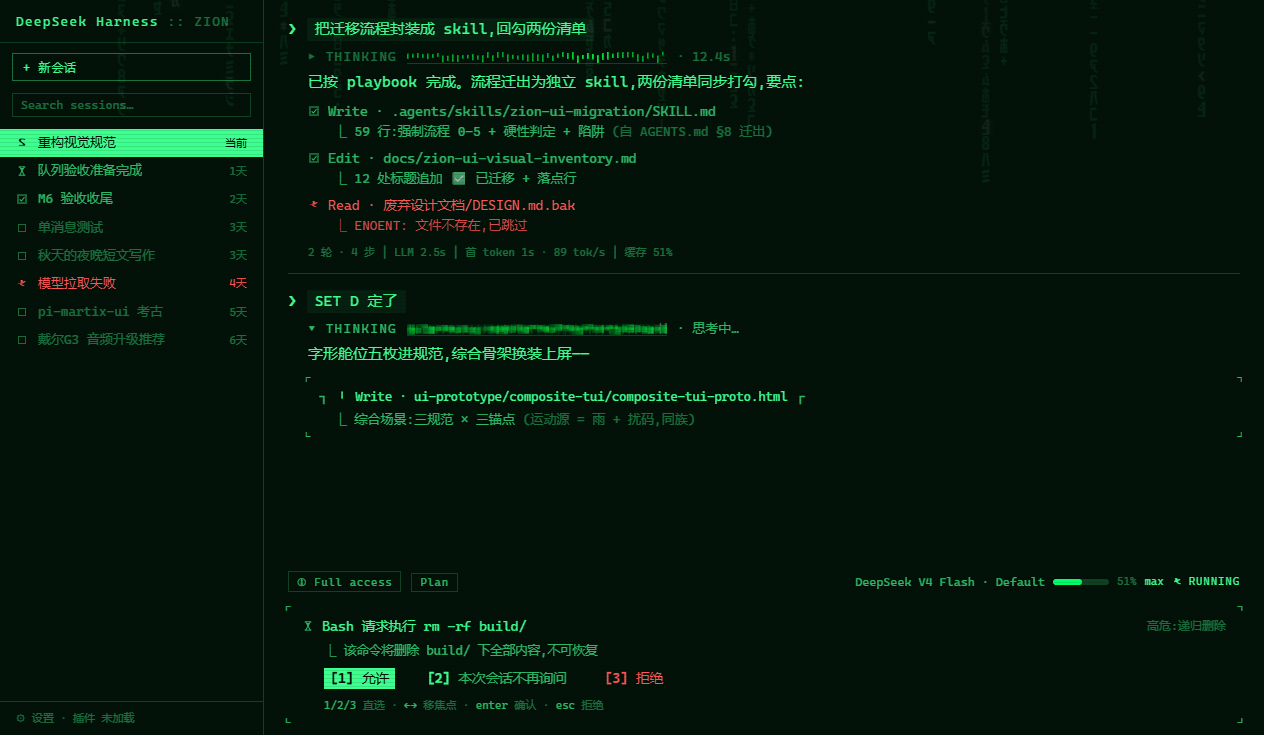
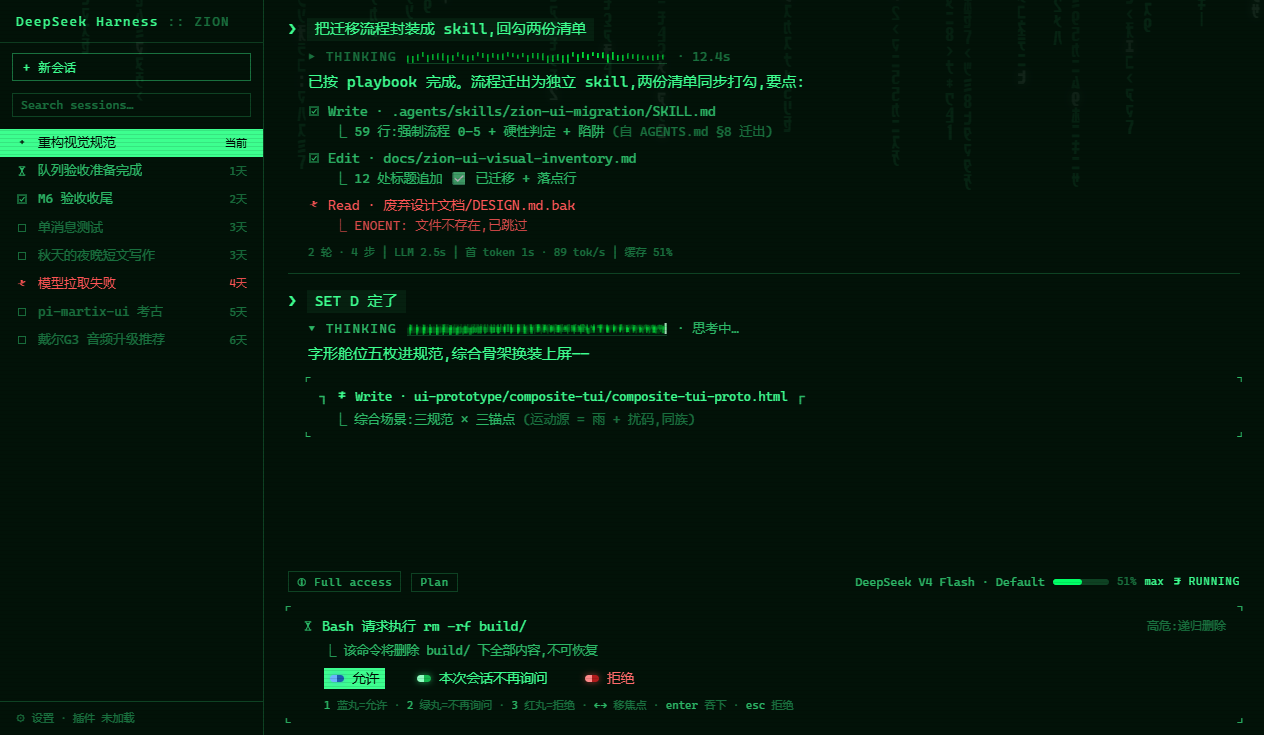
docs(design): §2.11 场景化定案——审批药丸三选(V2 双色半囊),字形手路线废弃
- 药丸语义:蓝=允许(第二色相锁死审批)/绿=信任(系统本色)/红=拒绝(回归语义红)
- 丸形 V2 双色半囊(亮半+暗半+中缝,电影胶囊结构),取代数字作选项标记,键位入 foot
- 字形手三轮迭代(掩码手/照片管线/SVG 描形手)全部废弃,_img2glyph.py/hands-data.js 删除留痕
- pill-variants demo V1–V4 对照存档;approval demo C 节与 composite 审批态同步换装

diff --git a/ui-prototype/pill-variants/pill-variants-proto.html b/ui-prototype/pill-variants/pill-variants-proto.html
@@ -1,0 +1,135 @@
+<!DOCTYPE html>
+<!-- PROTOTYPE — throwaway: 药丸样式变体微 demo(审批三丸:允许=蓝/信任=绿/拒绝=红)
+     V1 实心辉光(现状) / V2 双色半囊(电影胶囊两半质感+中缝) / V3 描边空心(发丝线+薄底) / V4 像素阶梯(cispEdges)
+     裁决:哪款丸形成为审批语义位的定稿。 -->
+<html lang="zh">
+<head>
+<meta charset="utf-8">
+<title>药丸变体</title>
+<style>
+  :root {
+    --bg: #010a04;
+    --surface: rgba(2, 18, 9, 0.92);
+    --p100: rgba(61, 255, 143, 1);
+    --p70: rgba(61, 255, 143, 0.7);
+    --p40: rgba(61, 255, 143, 0.4);
+    --p20: rgba(61, 255, 143, 0.2);
+    --font: "Share Tech Mono", ui-monospace, "Cascadia Mono", "Courier New", "Sarasa Term SC", "Microsoft YaHei", monospace;
+  }
+  * { margin: 0; padding: 0; box-sizing: border-box; }
+  body { background: var(--bg); color: var(--p100); font: 15px/1.55 var(--font); padding: 28px 32px; }
+  *::-webkit-scrollbar { width: 6px; height: 6px; }
+  *::-webkit-scrollbar-thumb { background: #00ff66; border-radius: 3px; }
+  *::-webkit-scrollbar-track, *::-webkit-scrollbar-corner { background: transparent; }
+
+  h1 { font-size: 13px; letter-spacing: 0.12em; margin-bottom: 4px; }
+  h1 .tag { color: var(--p40); }
+  .rule { color: var(--p70); font-size: 12px; margin-bottom: 20px; }
+  h2 { font-size: 11px; letter-spacing: 0.14em; color: var(--p70); margin: 22px 0 8px; text-transform: uppercase; }
+  h2::before { content: "─ "; color: var(--p40); }
+  h2 .d { color: var(--p40); letter-spacing: 0; text-transform: none; }
+
+  .lane { border: 1px solid var(--p20); background: var(--surface); padding: 12px 16px 14px; margin-bottom: 14px; }
+  .opts-pill { display: flex; justify-content: center; gap: 34px; font-size: 13.5px; }
+  .popt { display: inline-flex; gap: 8px; align-items: center; padding: 0 6px; }
+  .popt.allow .lbl { color: #6db3ff; }
+  .popt.trust .lbl { color: var(--p100); }
+  .popt.deny .lbl { color: #ff6b6b; }
+  .popt.focus { background: var(--p100); }
+  .popt.focus .lbl { color: var(--bg) !important; }
+  .cp { width: 14px; height: 7px; flex: none; }
+  .spec { display: flex; justify-content: center; gap: 60px; margin-top: 12px; }
+  .spec .cp { transform: scale(4); transform-origin: center; margin: 14px 0 4px; }
+  .spec .cell { text-align: center; }
+  .spec .nm { font-size: 10.5px; color: var(--p40); letter-spacing: 0.08em; margin-top: 2px; }
+
+  /* V1 实心辉光(现状) */
+  .v1 .cp { border-radius: 4px; }
+  .v1 .allow .cp { background: #3f9dff; box-shadow: 0 0 8px rgba(63,157,255,0.8), 0 0 2px rgba(190,225,255,0.9); }
+  .v1 .trust .cp { background: #3dff8f; box-shadow: 0 0 8px rgba(61,255,143,0.8), 0 0 2px rgba(194,255,217,0.9); }
+  .v1 .deny  .cp { background: #ff4d4d; box-shadow: 0 0 8px rgba(255,77,77,0.8), 0 0 2px rgba(255,190,190,0.9); }
+  /* V2 双色半囊(亮半+暗半+中缝) */
+  .v2 .cp { border-radius: 4px; position: relative; }
+  .v2 .allow .cp { background: linear-gradient(90deg, #6db3ff 0 48%, #1c5fb0 52% 100%); box-shadow: 0 0 6px rgba(63,157,255,0.55); }
+  .v2 .trust .cp { background: linear-gradient(90deg, #8fffc0 0 48%, #14b850 52% 100%); box-shadow: 0 0 6px rgba(61,255,143,0.55); }
+  .v2 .deny  .cp { background: linear-gradient(90deg, #ff8a8a 0 48%, #b01c1c 52% 100%); box-shadow: 0 0 6px rgba(255,77,77,0.55); }
+  /* V3 描边空心(发丝线 + 15% 薄底) */
+  .v3 .cp { border-radius: 4px; background: transparent; }
+  .v3 .allow .cp { border: 1px solid #6db3ff; background: rgba(63,157,255,0.15); }
+  .v3 .trust .cp { border: 1px solid var(--p100); background: rgba(61,255,143,0.15); }
+  .v3 .deny  .cp { border: 1px solid #ff6b6b; background: rgba(255,77,77,0.15); }
+  /* V4 像素阶梯(clip-path 阶梯切角) */
+  .v4 .cp { width: 16px; height: 8px;
+    clip-path: polygon(18.75% 0, 81.25% 0, 100% 37.5%, 100% 62.5%, 81.25% 100%, 18.75% 100%, 0 62.5%, 0 37.5%); }
+  .v4 .allow .cp { background: #3f9dff; box-shadow: 0 0 6px rgba(63,157,255,0.6); }
+  .v4 .trust .cp { background: #3dff8f; box-shadow: 0 0 6px rgba(61,255,143,0.6); }
+  .v4 .deny  .cp { background: #ff4d4d; box-shadow: 0 0 6px rgba(255,77,77,0.6); }
+
+  .note { color: var(--p40); font-size: 11px; line-height: 1.8; margin-top: 6px; }
+</style>
+</head>
+<body>
+
+<h1>药丸变体 <span class="tag">— 蓝=允许 / 绿=信任 / 红=拒绝,哪款丸形?</span></h1>
+<div class="rule">同一行三丸,只换丸形。判断:辨识度(三色一眼区分)/ 与发丝线系统的肌理协调 / 电影胶囊的联想强度。</div>
+
+<h2>V1 · 实心辉光 <span class="d">现状:纯色胶囊 + 双层 glow——最「发光体」</span></h2>
+<div class="lane v1">
+  <div class="opts-pill">
+    <span class="popt allow focus"><span class="cp"></span><span class="lbl">允许</span></span>
+    <span class="popt trust"><span class="cp"></span><span class="lbl">本次会话不再询问</span></span>
+    <span class="popt deny"><span class="cp"></span><span class="lbl">拒绝</span></span>
+  </div>
+  <div class="spec">
+    <div class="cell"><span class="popt allow"><span class="cp"></span></span><div class="nm">允许</div></div>
+    <div class="cell"><span class="popt trust"><span class="cp"></span></span><div class="nm">信任</div></div>
+    <div class="cell"><span class="popt deny"><span class="cp"></span></span><div class="nm">拒绝</div></div>
+  </div>
+</div>
+
+<h2>V2 · 双色半囊 <span class="d">亮半 + 暗半 + 中缝——真实胶囊的两半结构,电影丸最接近</span></h2>
+<div class="lane v2">
+  <div class="opts-pill">
+    <span class="popt allow focus"><span class="cp"></span><span class="lbl">允许</span></span>
+    <span class="popt trust"><span class="cp"></span><span class="lbl">本次会话不再询问</span></span>
+    <span class="popt deny"><span class="cp"></span><span class="lbl">拒绝</span></span>
+  </div>
+  <div class="spec">
+    <div class="cell"><span class="popt allow"><span class="cp"></span></span><div class="nm">允许</div></div>
+    <div class="cell"><span class="popt trust"><span class="cp"></span></span><div class="nm">信任</div></div>
+    <div class="cell"><span class="popt deny"><span class="cp"></span></span><div class="nm">拒绝</div></div>
+  </div>
+</div>
+
+<h2>V3 · 描边空心 <span class="d">1px 发丝线 + 15% 薄底——最克制,与框线系统同肌理</span></h2>
+<div class="lane v3">
+  <div class="opts-pill">
+    <span class="popt allow focus"><span class="cp"></span><span class="lbl">允许</span></span>
+    <span class="popt trust"><span class="cp"></span><span class="lbl">本次会话不再询问</span></span>
+    <span class="popt deny"><span class="cp"></span><span class="lbl">拒绝</span></span>
+  </div>
+  <div class="spec">
+    <div class="cell"><span class="popt allow"><span class="cp"></span></span><div class="nm">允许</div></div>
+    <div class="cell"><span class="popt trust"><span class="cp"></span></span><div class="nm">信任</div></div>
+    <div class="cell"><span class="popt deny"><span class="cp"></span></span><div class="nm">拒绝</div></div>
+  </div>
+</div>
+
+<h2>V4 · 像素阶梯 <span class="d">clip-path 阶梯切角——字符网格/像素肌理,机械感</span></h2>
+<div class="lane v4">
+  <div class="opts-pill">
+    <span class="popt allow focus"><span class="cp"></span><span class="lbl">允许</span></span>
+    <span class="popt trust"><span class="cp"></span><span class="lbl">本次会话不再询问</span></span>
+    <span class="popt deny"><span class="cp"></span><span class="lbl">拒绝</span></span>
+  </div>
+  <div class="spec">
+    <div class="cell"><span class="popt allow"><span class="cp"></span></span><div class="nm">允许</div></div>
+    <div class="cell"><span class="popt trust"><span class="cp"></span></span><div class="nm">信任</div></div>
+    <div class="cell"><span class="popt deny"><span class="cp"></span></span><div class="nm">拒绝</div></div>
+  </div>
+</div>
+
+<div class="note">备注:V2 的「双色半囊」是电影道具丸的真实结构(两半压合),三色版本各配了亮/暗两阶;V3 在 4× 下最精致但 1× 时最弱;V4 的阶梯切角在 1× 下读作「倒角胶囊」,比纯圆角更硬。</div>
+
+</body>
+</html>

diff --git a/ui-prototype/approval/approval-proto.html b/ui-prototype/approval/approval-proto.html
@@ -65,6 +65,20 @@
   .ap .foot .k { color: var(--p70); }
 
   .note { color: var(--p40); font-size: 11px; line-height: 1.8; margin-top: 6px; }
+
+  /* ── C 红蓝药丸(选项 = 药丸标记,无手;V2 双色半囊定稿) ── */
+  .opts-pill { display: flex; justify-content: center; gap: 34px; margin: 14px 0 2px; font-size: 13.5px; }
+  .popt { display: inline-flex; gap: 8px; align-items: center; padding: 0 6px; }
+  .popt .cap-pill { width: 14px; height: 7px; border-radius: 4px; flex: none; }
+  .popt.allow .cap-pill { background: linear-gradient(90deg, #6db3ff 0 48%, #1c5fb0 52% 100%); box-shadow: 0 0 6px rgba(63,157,255,0.55); }
+  .popt.trust .cap-pill { background: linear-gradient(90deg, #8fffc0 0 48%, #14b850 52% 100%); box-shadow: 0 0 6px rgba(61,255,143,0.55); }
+  .popt.deny .cap-pill { background: linear-gradient(90deg, #ff8a8a 0 48%, #b01c1c 52% 100%); box-shadow: 0 0 6px rgba(255,77,77,0.55); }
+  .popt.allow .lbl { color: #6db3ff; }
+  .popt.trust .lbl { color: var(--p100); }
+  .popt.deny .lbl { color: #ff6b6b; }
+  .popt.focus { background: var(--p100); }
+  .popt.focus .lbl { color: var(--bg) !important; }
+  .vtag { text-align: center; font-size: 11px; color: var(--p40); letter-spacing: 0.1em; margin-top: 14px; }
 </style>
 </head>
 <body>
@@ -106,7 +120,22 @@
   </div>
 </div>
 
-<div class="note">判断点:① 横排省一行高度、更像「快捷应答」,竖排每行可挂 hint、键盘焦点语义更清楚;② 角括号面板与运行工具的角括号同族但语义分层:工具=正在发生,审批=正在等你;③ 拒绝的红只在 [3] 一行,不污染面板。</div>
+<h2>C · 红蓝药丸(场景化 · 药丸即选项)</h2>
+<div class="lane">
+  <div class="ap">
+    <span class="cnr ct cl">⌜</span><span class="cnr ct cr">⌝</span><span class="cnr cb cl">⌞</span><span class="cnr cb cr">⌟</span>
+    <div class="req"><span class="ic c-wait" data-k="wait"></span><span>Bash 请求执行</span><span class="cmd">rm -rf build/</span><span class="why">高危:递归删除</span></div>
+    <div class="sub">⎿ 该命令将删除 build/ 下全部内容,不可恢复——选你的药丸</div>
+    <div class="opts-pill">
+      <span class="popt allow focus"><span class="cap-pill"></span><span class="lbl">允许</span></span>
+      <span class="popt trust"><span class="cap-pill"></span><span class="lbl">本次会话不再询问</span></span>
+      <span class="popt deny"><span class="cap-pill"></span><span class="lbl">拒绝</span></span>
+    </div>
+    <div class="foot"><span class="k">1</span> 蓝丸=允许 · <span class="k">2</span> 绿丸=不再询问 · <span class="k">3</span> 红丸=拒绝 · <span class="k">←→</span> 移焦点 · <span class="k">enter</span> 吞下 · <span class="k">esc</span> 拒绝</div>
+  </div>
+</div>
+
+<div class="note">语义定案:蓝丸=允许(第二色相,锁死审批场景)/ 绿丸=本次会话不再询问(磷光绿=系统本色,「成为系统记住的选择」= 信任)/ 红丸=拒绝(回归语义红)。药丸取代数字作选项标记,数字键位保留在 foot 提示;esc = 拒绝(红丸)。</div>
 
 <script>
 const MXFONT = '"Matrix Code","Share Tech Mono",monospace';

diff --git a/ui-prototype/composite-tui/composite-tui-proto.html b/ui-prototype/composite-tui/composite-tui-proto.html
@@ -138,12 +138,16 @@
   .ap .req .why { color: var(--p40); font-size: 12px; margin-left: auto; }
   .ap .sub { font-size: 12.5px; color: var(--p70); margin: 4px 0 8px 22px; }
   .ap .opts { display: flex; gap: 26px; margin-left: 22px; font-size: 13.5px; }
-  .ap .opt { padding: 0 6px; }
-  .ap .opt .key { color: var(--p100); font-weight: bold; }
-  .ap .opt .lbl { color: var(--p70); }
-  .ap .opt.deny .key, .ap .opt.deny .lbl { color: var(--danger); }
+  .ap .opt { display: inline-flex; gap: 8px; align-items: center; padding: 0 6px; }
+  .ap .opt .cap-pill { width: 14px; height: 7px; border-radius: 4px; flex: none; }
+  .ap .opt.allow .cap-pill { background: linear-gradient(90deg, #6db3ff 0 48%, #1c5fb0 52% 100%); box-shadow: 0 0 6px rgba(63,157,255,0.55); }
+  .ap .opt.trust .cap-pill { background: linear-gradient(90deg, #8fffc0 0 48%, #14b850 52% 100%); box-shadow: 0 0 6px rgba(61,255,143,0.55); }
+  .ap .opt.deny .cap-pill { background: linear-gradient(90deg, #ff8a8a 0 48%, #b01c1c 52% 100%); box-shadow: 0 0 6px rgba(255,77,77,0.55); }
+  .ap .opt.allow .lbl { color: #6db3ff; }
+  .ap .opt.trust .lbl { color: var(--p100); }
+  .ap .opt.deny .lbl { color: #ff6b6b; }
   .ap .opt.focus { background: var(--p100); }
-  .ap .opt.focus * { color: var(--bg) !important; }
+  .ap .opt.focus .lbl { color: var(--bg) !important; }
   .ap .foot { margin: 8px 0 0 22px; font-size: 11px; color: var(--p40); }
   .ap .foot .k { color: var(--p70); }
 </style>
@@ -222,11 +226,11 @@
         <div class="req"><span class="ic c-wait" data-k="wait"></span><span>Bash 请求执行</span><span>rm -rf build/</span><span class="why">高危:递归删除</span></div>
         <div class="sub">⎿ 该命令将删除 build/ 下全部内容,不可恢复</div>
         <div class="opts">
-          <span class="opt focus"><span class="key">[1]</span> <span class="lbl">允许</span></span>
-          <span class="opt"><span class="key">[2]</span> <span class="lbl">本次会话不再询问</span></span>
-          <span class="opt deny"><span class="key">[3]</span> <span class="lbl">拒绝</span></span>
+          <span class="opt allow focus"><span class="cap-pill"></span><span class="lbl">允许</span></span>
+          <span class="opt trust"><span class="cap-pill"></span><span class="lbl">本次会话不再询问</span></span>
+          <span class="opt deny"><span class="cap-pill"></span><span class="lbl">拒绝</span></span>
         </div>
-        <div class="foot"><span class="k">1/2/3</span> 直选 · <span class="k">←→</span> 移焦点 · <span class="k">enter</span> 确认 · <span class="k">esc</span> 拒绝</div>
+        <div class="foot"><span class="k">1</span> 蓝丸=允许 · <span class="k">2</span> 绿丸=不再询问 · <span class="k">3</span> 红丸=拒绝 · <span class="k">←→</span> 移焦点 · <span class="k">enter</span> 吞下 · <span class="k">esc</span> 拒绝</div>
       </div>
       <div class="subline">
         <span>2 轮 · 4 步 │ LLM 2.5s │ 首 token 平均 1s · 89 tok/s │ 缓存命中 51% │ 输入 47.9K tok · 输出 47 tok</span>

diff --git a/ui-prototype/approval/_img2glyph.py b/ui-prototype/approval/_img2glyph.py
@@ -1,0 +1,93 @@
+# PROTOTYPE — throwaway: 剧照 → Matrix 字形亮度场转换(方案 A 管线 v2:抠形+描边+归一)
+# 用法: python _img2glyph.py
+# v2 工序:网格化 → 阈值剪影 → 形态学 close/open → bbox 收紧(+1 格边距) →
+#          内部亮度分位数归一(1–4 档) → 轮廓格提 4 档 → 药丸挖除
+# 输出: hands-data.js(const HANDS = {...})
+from PIL import Image, ImageOps
+import json, os
+
+SRC = r"C:\Users\zyf\Desktop\红蓝药丸-6809081929658.png"
+OUT = os.path.join(os.path.dirname(os.path.abspath(__file__)), "hands-data.js")
+
+CROPS = {"left": (0, 0, 148, 168), "right": (152, 0, 300, 168)}
+GRID_W = 56
+CHAR_ASPECT = 0.5
+BG_T = {"left": 40, "right": 52}  # 剪影阈值(左手在剧照里更暗,单列阈值防轮廓被吃)
+MARGIN = 1           # bbox 外扩格数
+PILL_RX_MAX = 4.0    # 药丸挖除半径上限(格),防挖出大洞
+
+# 药丸(全图坐标,硬标定;换素材重跑时重标定)
+PILL_FULL = {"left": (84, 83, 22, 16), "right": (229, 83, 20, 14)}  # cx, cy, w, h
+
+def dilate(m, W, H):
+    return [[any(m[yy][xx] for yy in range(max(0, y-1), min(H, y+2)) for xx in range(max(0, x-1), min(W, x+2)))
+             for x in range(W)] for y in range(H)]
+
+def erode(m, W, H):
+    return [[all(m[yy][xx] for yy in range(max(0, y-1), min(H, y+2)) for xx in range(max(0, x-1), min(W, x+2)))
+             for x in range(W)] for y in range(H)]
+
+def convert(img, side, crop):
+    W, H = img.size
+    gh = max(1, round(GRID_W * (H / W) * CHAR_ASPECT))
+    g = img.resize((GRID_W, gh), Image.LANCZOS)
+    px = g.load()
+    gray = [[px[x, y] for x in range(GRID_W)] for y in range(gh)]
+
+    # 1) 剪影 + 形态学(close 填缝 → open 去斑)
+    m = [[gray[y][x] >= BG_T[side] for x in range(GRID_W)] for y in range(gh)]
+    m = erode(dilate(m, GRID_W, gh), GRID_W, gh)
+    m = dilate(erode(m, GRID_W, gh), GRID_W, gh)
+
+    # 2) bbox 收紧(+MARGIN)
+    ys = [y for y in range(gh) for x in range(GRID_W) if m[y][x]]
+    xs = [x for y in range(gh) for x in range(GRID_W) if m[y][x]]
+    if not xs:
+        raise SystemExit(f"{side}: 剪影为空,调阈值")
+    x0, x1 = max(0, min(xs) - MARGIN), min(GRID_W, max(xs) + 1 + MARGIN)
+    y0, y1 = max(0, min(ys) - MARGIN), min(gh, max(ys) + 1 + MARGIN)
+    tw, th = x1 - x0, y1 - y0
+
+    # 3) 内部亮度分位数归一 → 1–4 档
+    interior = sorted(gray[y][x] for y in range(y0, y1) for x in range(x0, x1) if m[y][x])
+    def level(v):
+        q = sum(1 for t in interior if t <= v) / len(interior)  # 近似分位(小网格够用)
+        return 1 if q < 0.45 else 2 if q < 0.75 else 3 if q < 0.93 else 4
+
+    # 4) 药丸格坐标(全图 → 裁剪图 → 网格 → 收紧后网格)
+    cx, cy, pw, ph = PILL_FULL[side]
+    gx = (cx - crop[0]) / W * GRID_W - x0
+    gy = (cy - crop[1]) / H * gh - y0
+    pill = {"x": round(gx, 2), "y": round(gy, 2),
+            "rx": min(PILL_RX_MAX, max(1.2, pw / W * GRID_W * 0.8)), "ry": max(1.0, ph / H * gh * 1.1)}
+
+    rows = []
+    for y in range(y0, y1):
+        row = []
+        for x in range(x0, x1):
+            if not m[y][x]:
+                row.append(0); continue
+            # 药丸挖除
+            if abs(x - x0 - gx) <= pill["rx"] and abs(y - y0 - gy) <= pill["ry"]:
+                row.append(0); continue
+            # 轮廓格:四邻有空 → 4 档描边
+            edge = (x == 0 or x == GRID_W-1 or y == 0 or y == gh-1 or
+                    not m[y][x-1] or not m[y][x+1] or not m[y-1][x] or not m[y+1][x])
+            row.append(4 if edge else level(gray[y][x]))
+        rows.append(row)
+    return {"w": tw, "h": th, "levels": rows, "pill": pill}
+
+img = ImageOps.grayscale(Image.open(SRC))
+img = ImageOps.autocontrast(img, cutoff=2)
+data = {}
+for side, box in CROPS.items():
+    data[side] = convert(img.crop(box), side, box)
+
+with open(OUT, "w", encoding="utf-8") as f:
+    f.write("// PROTOTYPE — generated by _img2glyph.py,勿手改\nconst HANDS = ")
+    json.dump(data, f, separators=(",", ":"))
+    f.write(";\n")
+for side in data:
+    d = data[side]
+    filled = sum(1 for r in d["levels"] for v in r if v > 0)
+    print(side, "grid", d["w"], "x", d["h"], "filled", filled, "pill", d["pill"])

diff --git a/DESIGN.md b/DESIGN.md
@@ -166,17 +166,19 @@ Matrix 的辨识度来自黑场、磷光绿、字形与状态叙事,不来自效
 
 > 验证:`ui-prototype/row-select/`(A 全反 vs B 柔反对照,2026-08-29 选 A)。
 
-### 2.11 审批弹层:编号选项 + 角括号注视(C07 + C15)
+### 2.11 审批弹层:角括号注视 + 药丸三选(C07 + C15 场景化定案)
 
 审批 = 系统停下等一个决定。面板接管 composer 位(与官方 ApprovalPanel 语义一致):
 
 - **面板** = 四角角括号 `⌜ ⌝ ⌞ ⌟`(注视),与运行工具的角括号同族但语义分层:工具 = 正在发生,审批 = 正在等你。
-- **选项横排**:`[1] 允许  [2] 本次会话不再询问  [3] 拒绝`;键名 `[]` 100% 档加粗,说明 70% 档;焦点 = 选项段反显(C08 光标的紧凑变体)。
-- **拒绝**:`[3]` 段独占唯一语义红,不污染面板;`esc` = 拒绝(与官方语义一致,不得静默放行)。
-- 键盘:`1/2/3` 直选,`←→` 移焦点,`enter` 确认;底部一行快捷键提示(40% 档)。
-- 高危命令在请求行右端以文字标注(如「高危:递归删除」),不另设颜色。
+- **选项 = 三颗双色半囊药丸**(亮半 + 暗半 + 中缝,电影胶囊的两半压合结构),置于选项开头、取代数字标记:
+  - **蓝丸 `#3f9dff` = 允许**(第二色相,锁死审批场景,不外溢)
+  - **绿丸 `#3dff8f` = 本次会话不再询问**(磷光绿 = 系统本色,语义 = 信任/被系统记住)
+  - **红丸 `#ff4d4d` = 拒绝**(回归语义红,与错误/拒绝全系统一致)
+- **键盘**:`1/2/3` 直选(蓝/绿/红),`←→` 移焦点,`enter` 确认,`esc` = 拒绝(与官方语义一致,不得静默放行);foot 行(40% 档)记录键位。
+- 焦点 = 选项段反显(C08 光标的紧凑变体);高危命令在请求行右端以文字标注(如「高危:递归删除」),不另设颜色。
 
-> 验证:`ui-prototype/approval/`(A 横排 vs B 竖排对照,2026-08-29 选 A)。
+> 验证:`ui-prototype/approval/`(A 横排 / B 竖排 / C 药丸)+ `ui-prototype/pill-variants/`(V1–V4 丸形对照,2026-08-29 选 V2 双色半囊)。
 
 ## 3. 不可交换的边界
 
